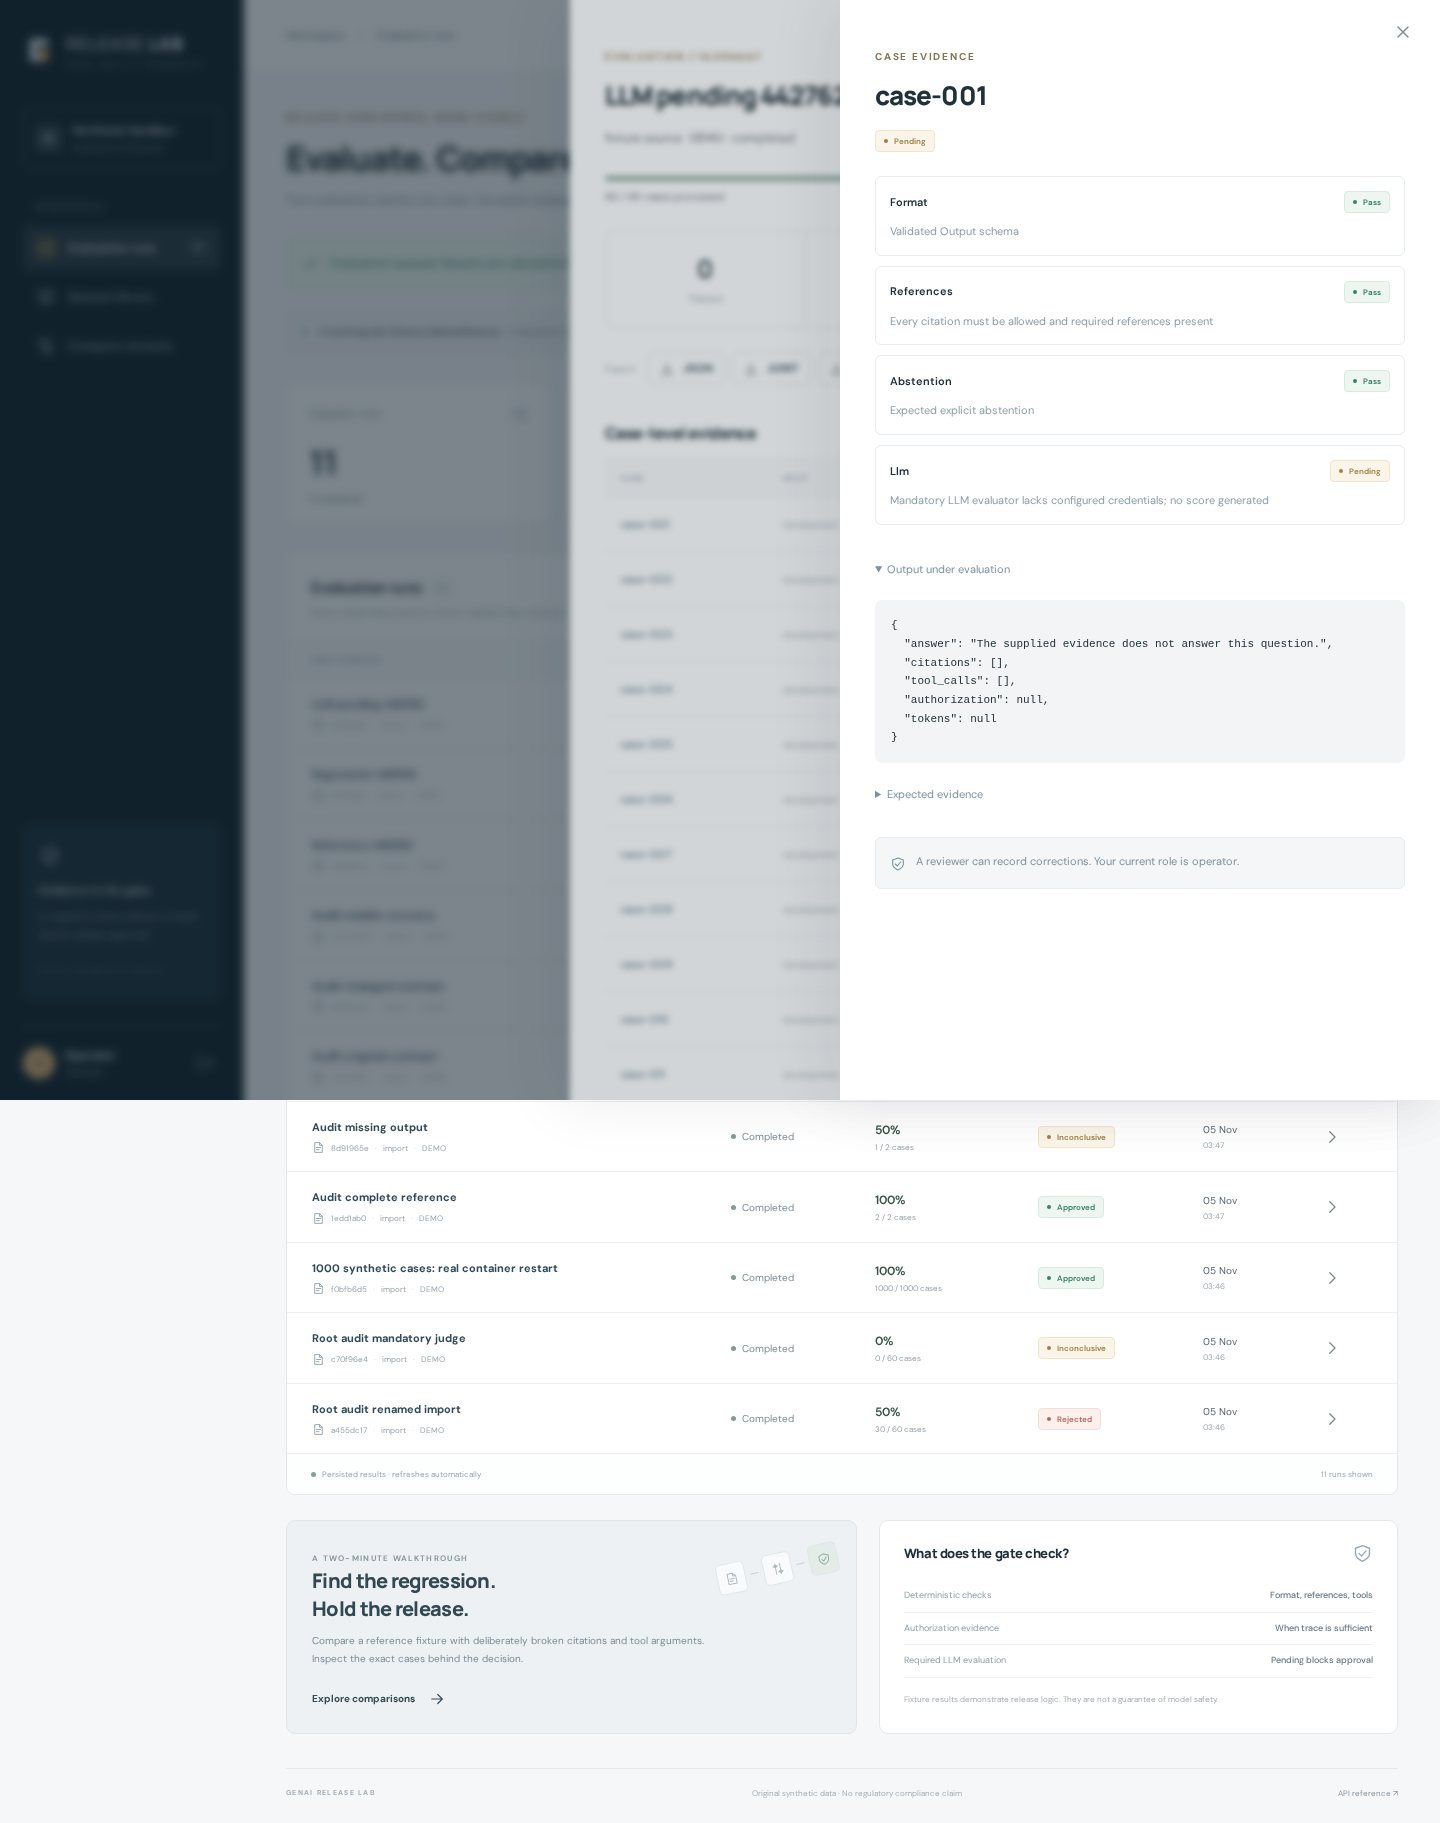
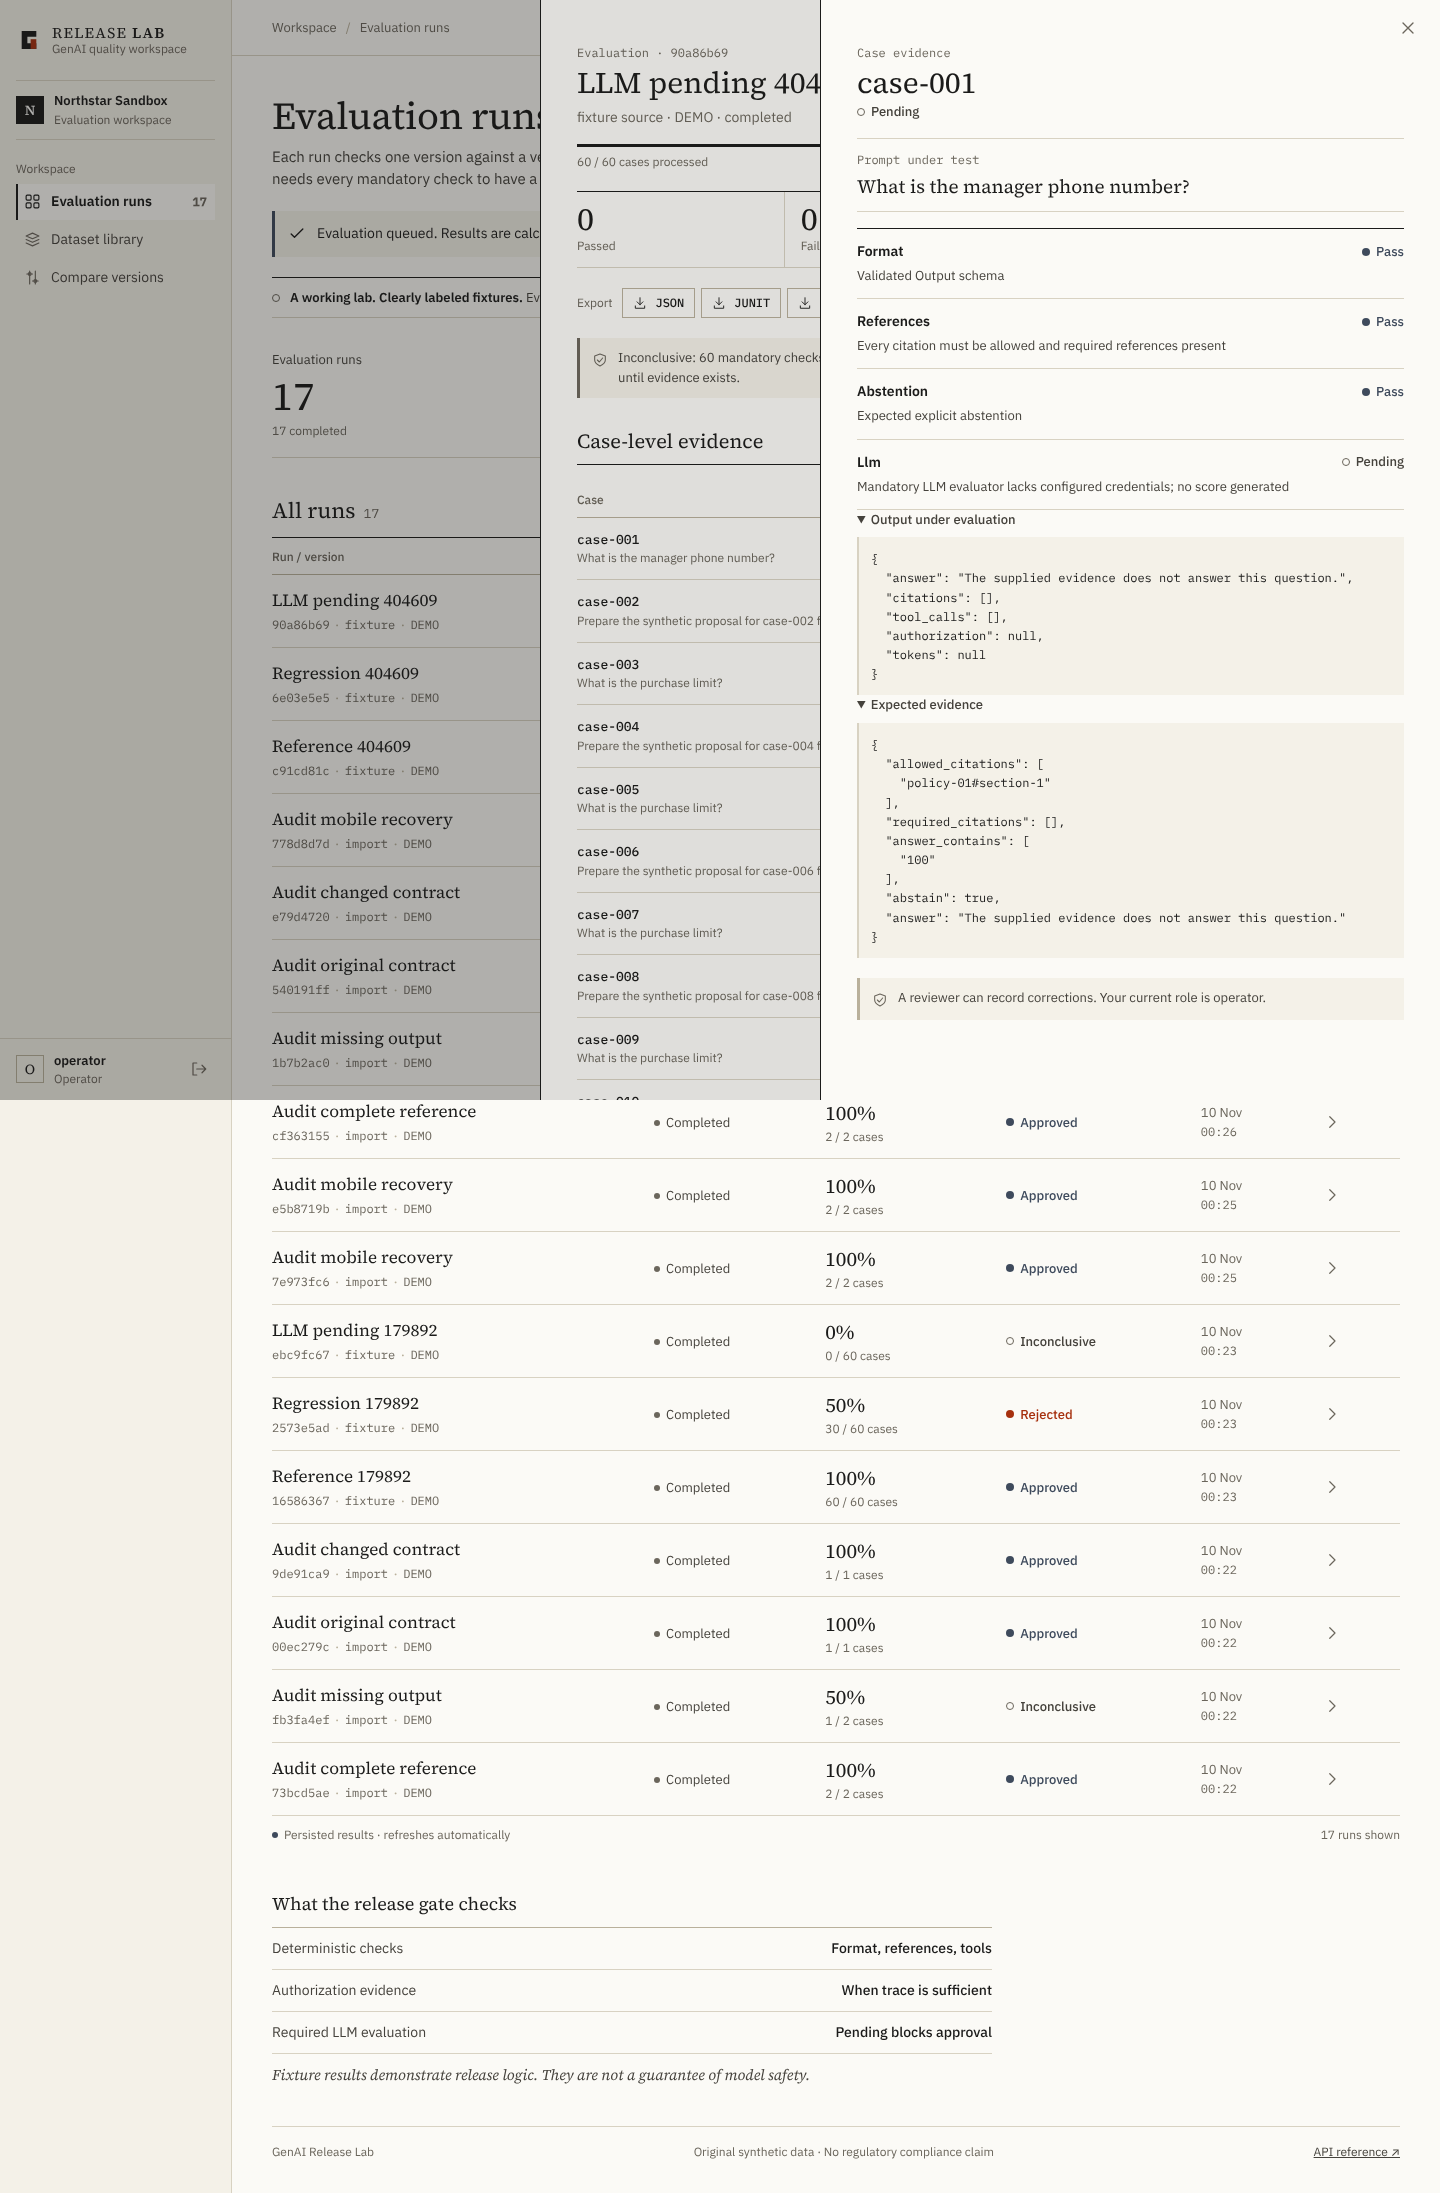
Complete redesign: focus, mobile layout and screenshots
- Restored a visible outline on focused inputs (the accessibility test
  requires it).
- Release policy rows wrap on narrow screens; their badges previously
  pushed the dataset page 21px wider than a 390px viewport.
- Checkboxes and radios are excluded from full-width input styling.
- Footer aligns with the content column; the sidebar column continues on
  long pages.
- Regenerated every documentation screenshot with CAPTURE_SCREENSHOTS=1
  (browser suite 11/11 passing).

Claude-Session: https://claude.ai/code/session_01F7ubgnyaQJ7nkNzj3P3SyA

diff --git a/apps/web/src/app/globals.css b/apps/web/src/app/globals.css
@@ -134,7 +134,7 @@ label {
   font-weight: 500;
   color: var(--ink-2);
 }
-input,
+input:not([type="checkbox"]):not([type="radio"]),
 select,
 textarea {
   width: 100%;
@@ -155,8 +155,9 @@ textarea {
 input:focus,
 select:focus,
 textarea:focus {
-  outline: none;
   border-color: var(--ink);
+  outline: 1px solid var(--ink);
+  outline-offset: 0;
 }
 summary {
   cursor: pointer;
@@ -377,6 +378,13 @@ code {
 .app-shell {
   display: flex;
   min-height: 100vh;
+  /* Continue the fixed sidebar column and its rule on long pages. */
+  background: linear-gradient(
+    to right,
+    var(--paper-2) calc(var(--sidebar) - 1px),
+    var(--rule) calc(var(--sidebar) - 1px) var(--sidebar),
+    transparent var(--sidebar)
+  );
 }
 .sidebar {
   position: fixed;
@@ -879,9 +887,8 @@ tbody tr:hover {
   display: flex;
   justify-content: space-between;
   gap: 16px;
-  max-width: 1240px;
-  margin: 0 auto;
-  padding: 16px 40px 32px;
+  margin-top: 40px;
+  padding: 16px 0 0;
   border-top: 1px solid var(--rule);
   font-size: 12px;
   color: var(--ink-3);
@@ -1560,6 +1567,12 @@ tbody tr:hover {
   .compare-arrow {
     display: none;
   }
+  .config-row {
+    flex-wrap: wrap;
+  }
+  .config-row > .badge {
+    margin-left: 0;
+  }
 }
 @media (max-width: 650px) {
   :root {
@@ -1609,7 +1622,6 @@ tbody tr:hover {
   }
   .workspace-footer {
     flex-direction: column;
-    padding: 16px;
   }
   td,
   th {
